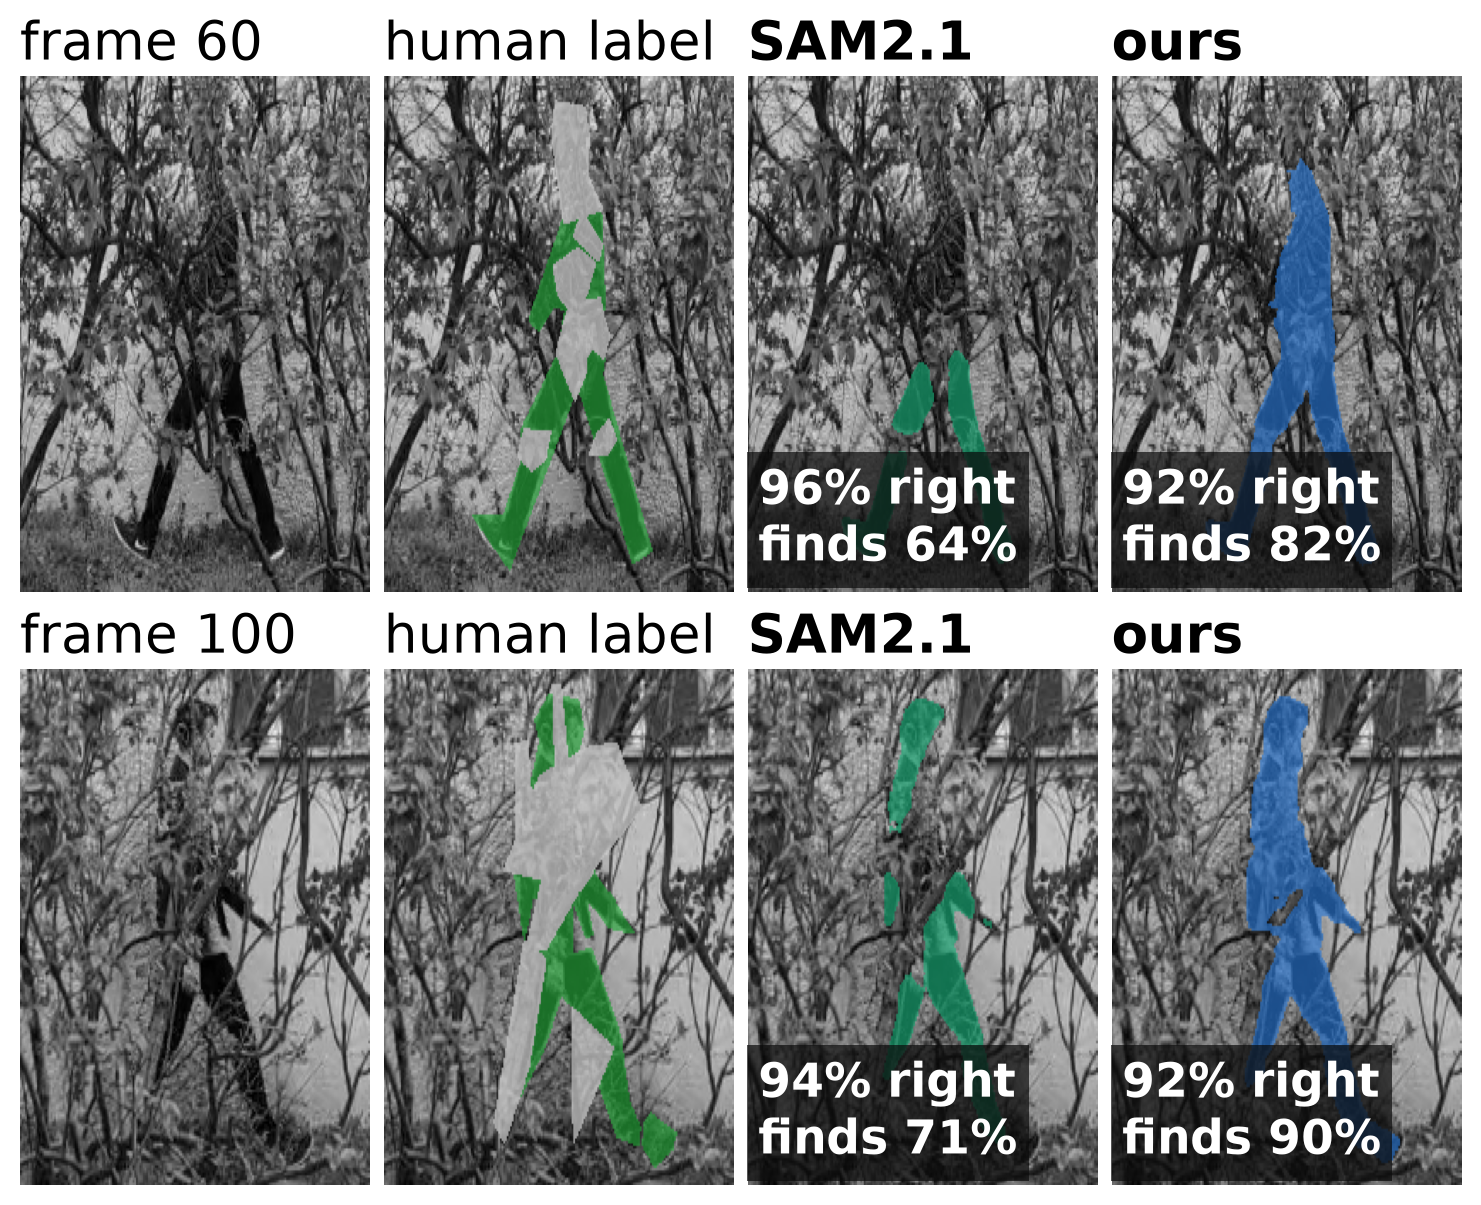
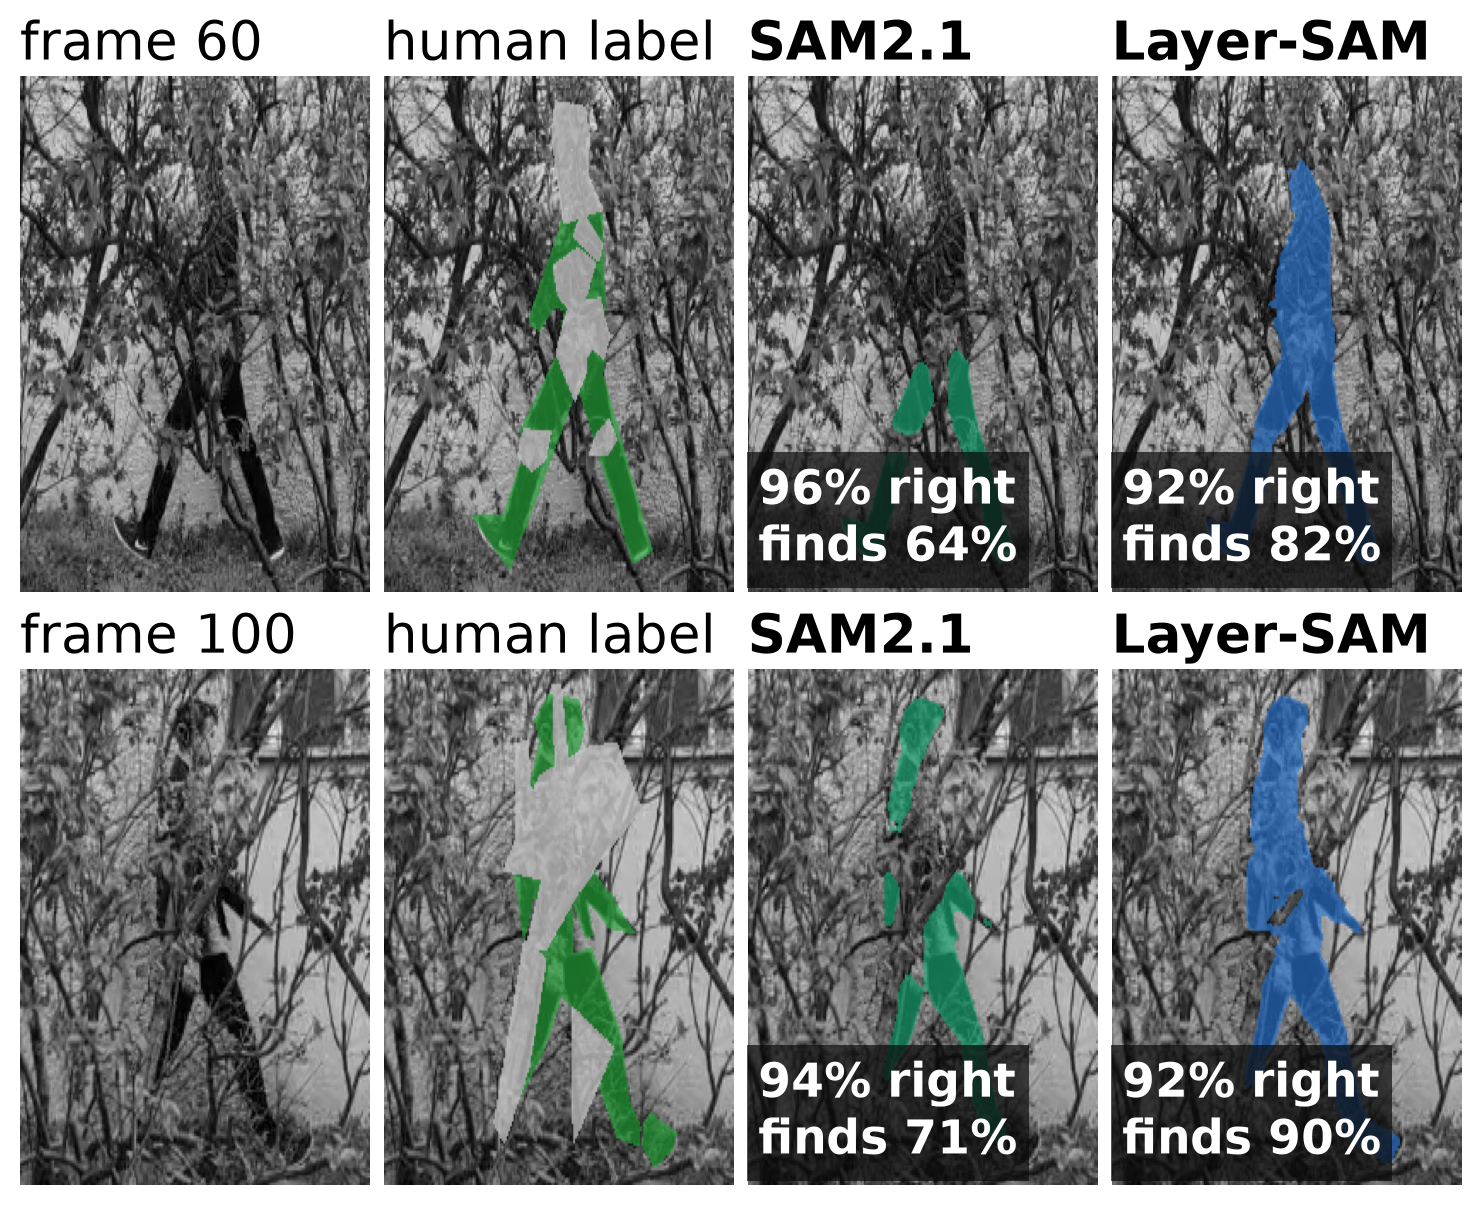
Poster: Layer-SAM naming, memory/tracker table columns, whole-crossing recognition-vs-N
- Results table: mem./trk. check columns replace the asterisk footnote; method named Layer-SAM in table and figures.
- recogN: 32 whole crossings, seq1-4 (eval/recog_sweep.sbatch CSVs, N = 5 from the headline CSV), Layer-SAM seed 0,
  SAM2.1 and the plain average only; caption follows the new result (ahead at N = 3, on par at 5-11, SAM2.1 ahead
  for long integrations).
- amssymb for the check marks.

Changed region(s): [[0.7454, 0.0, 0.9629, 0.0614], [0.7454, 0.4913, 0.9629, 0.5527]]

diff --git a/benchmark/nfo_vos/tools/poster_figures.py b/benchmark/nfo_vos/tools/poster_figures.py
@@ -112,7 +112,7 @@ def playsafe_options():
 
 def qual():
     """Results column: the section-2 frame again, now with our mask, plus a frame late in another crossing."""
-    playsafe((('seq4', 293), ('seq4', 123)), arms=(('b0-c2', 'SAM2.1', C_B0), ('adapter-pf', 'ours', C_OURS)),
+    playsafe((('seq4', 293), ('seq4', 123)), arms=(('b0-c2', 'SAM2.1', C_B0), ('adapter-pf', 'Layer-SAM', C_OURS)),
              name='qual.png', pad_x=0.5, row_h=3.6)
 
 
@@ -184,7 +184,7 @@ def bars():
 STEPS = (('+ tracker prompts\n(memory kept)', (0.089, 0.012, -0.029), ((0.062, 0.116), (-0.011, 0.036), (-0.054, 0.001)), None),
          ('− memory', (-0.033, -0.060, -0.040), ((-0.076, 0.004), (-0.113, -0.014), (-0.061, -0.021)), None),
          ('+ adapter, given the\nempty scene', (0.019, 0.055, 0.055), None, None),
-         ('+ integral image\n(= ours)', (0.031, 0.016, 0.017), None,
+         ('+ integral image\n(= Layer-SAM)', (0.031, 0.016, 0.017), None,
           ((0.019, 0.035, 0.038), (0.005, 0.020, 0.022), (0.009, 0.022, 0.019))))
 
 
@@ -231,7 +231,7 @@ def masksize():
     print(f'SAM2.1 video / ours mask size, k >= {MF.K1}: x{np.exp(m):.2f} [{np.exp(lo):.2f}, {np.exp(hi):.2f}] ({n} clips)')
     fig, ax = plt.subplots(figsize=(9.3, 3.3))
     for a, label, col in (('b0-c2', 'SAM2.1', C_B0), ('b0trk-c2', 'SAM2.1 + tracker', '#8a5cc2'),
-                          ('ours', 'ours, no memory', C_OURS)):
+                          ('ours', 'Layer-SAM (ours)', C_OURS)):
         yv, lo, hi = MF.median_curve(F[a], k)
         ax.fill_between(k, lo, hi, color=col, alpha=0.13, lw=0)
         ax.plot(k, yv, color=col, lw=3.5, label=label)
@@ -244,27 +244,39 @@ def masksize():
     save(fig, 'masksize.png')
 
 
-def recogN():
-    """Detector AP50 on masked N-frame stacks vs N (40-frame windows, seq2–4; recog_vs_N's CSVs)."""
-    from benchmark.nfo_vos.eval import recog_vs_N as RN
-    import importlib
-    os.environ['NFO_RUN'] = 'rr'
-    importlib.reload(TR); importlib.reload(BM)
-    names = {'adapter-pf': 'ours, no memory', 't1-c2': 'SAMURAI', 'b0-c2': 'SAM2.1', 'trk': 'SAM2.1, no memory*',
-             'nomask': 'no mask (plain average)'}
-    fig, ax = plt.subplots(figsize=(9.3, 2.9))
+# recognition vs N on the 32 whole crossings (seq1-4): eval/recog_sweep.sbatch CSVs (_fpN_<arm>), N = 5 from the
+# headline CSV (_fp); Layer-SAM = seed 0 (the sweep ran one seed)
+RECOG_ARMS = (('adapter-pf', 'Layer-SAM (ours)', C_OURS, '-'), ('b0-c2', 'SAM2.1', C_B0, '-'),
+              ('nomask', 'no mask (plain average)', C_GREY, '--'))      # tracker variants: in the table
+
+
+def recogN(ns=(1, 3, 5, 7, 11, 15, 21)):
+    """YOLO11 AP50 on masked N-frame integrations vs N, whole crossings, seq1-4; light band: 95% CI over crossings."""
+    from benchmark.nfo_vos.eval.recognition import ap50
     res = {}
-    for N in RN.NS:
-        rows = list(csv.DictReader(open(f'{BM.OUT}/recog_N{N}_uniform_meanfill_ablN.csv')))
-        for a, *_ in RN.ARMS:
-            res[a, N] = RN.ap_ci(rows, a, B=300)
-    for a, _, col, ls in [x for x in RN.ARMS if x[0] != 't1-c2']:
-        yv = np.array([res[a, N] for N in RN.NS])
-        ax.plot(RN.NS, yv[:, 0], ls, color=col, lw=3 if a == 'adapter-pf' else 2.2, marker='o', ms=8, mec='white',
-                mew=1.5, label=names[a], zorder=3 if a == 'adapter-pf' else 2)
-    ax.axvline(5, color='#52514e', lw=1, ls=':')                     # N = 5: the headline's stack length
-    ax.set_xticks(RN.NS); ax.set_xlabel('frames stacked N'); ax.set_ylabel('person detected (AP50)')
-    ax.legend(loc='upper center', bbox_to_anchor=(0.5, -0.22), ncol=2, frameon=False, fontsize=16)
+    for N in ns:
+        for a, *_ in RECOG_ARMS:
+            f = f'{BM.OUT}/recog_N5_uniform_meanfill_fp.csv' if N == 5 else f'{BM.OUT}/recog_N{N}_uniform_meanfill_fpN_{a}.csv'
+            win = {}
+            for r in csv.DictReader(open(f)):
+                if r['arm'] == a:
+                    win.setdefault(r['id'], []).append([tuple(x) for x in json.loads(r['dets'])])
+            ids = sorted(win)
+            boot = np.random.default_rng(0).integers(0, len(ids), (300, len(ids)))
+            bs = [ap50([d for i in b for d in win[ids[i]]]) for b in boot]
+            res[a, N] = (ap50([d for i in ids for d in win[i]]), *np.quantile(bs, [.025, .975]))
+            print(f'N={N} {a:10s} AP50 {res[a, N][0]:.3f} [{res[a, N][1]:.3f}, {res[a, N][2]:.3f}]')
+    fig, ax = plt.subplots(figsize=(9.3, 3.1))
+    for a, label, col, ls in RECOG_ARMS:
+        y = np.array([res[a, N] for N in ns])
+        if a in ('adapter-pf', 'b0-c2'):
+            ax.fill_between(ns, y[:, 1], y[:, 2], color=col, alpha=0.12, lw=0)
+        ax.plot(ns, y[:, 0], ls, color=col, lw=3.2 if a == 'adapter-pf' else 2, marker='o', ms=7 if a == 'adapter-pf' else 5,
+                mec='white', mew=1.2, label=label, zorder=3 if a == 'adapter-pf' else 2)
+    ax.axvline(5, color='#52514e', lw=1, ls=':')                     # N = 5: the table's stack length
+    ax.set_xticks(ns); ax.set_xlim(0.5, 21.5); ax.set_xlabel('frames integrated N'); ax.set_ylabel('YOLO11 AP50')
+    ax.legend(loc='upper center', bbox_to_anchor=(0.5, -0.24), ncol=3, frameon=False, fontsize=14, handlelength=1.4,
+              columnspacing=1)
     ax.grid(axis='y', color='#e6e5e0', lw=0.8); ax.set_axisbelow(True)
     save(fig, 'recogN.png')
 

diff --git a/docs/poster/poster_latex/NFO_VOS_inhalt.tex b/docs/poster/poster_latex/NFO_VOS_inhalt.tex
@@ -129,40 +129,41 @@ scene-1 hand labels (IoU), not on the downstream metrics.
 \Abschnitt{6\quad Results on NFO-VOS}
 
 \begin{center}
-\setlength{\tabcolsep}{3.6pt}\fontsize{20}{25}\selectfont
-\begin{tabular}{@{}l cc ccc ccc@{}}
- & \multicolumn{2}{c}{\textbf{tracking}} & \multicolumn{3}{c}{\textbf{segmentation}} & \multicolumn{3}{c}{\textbf{recognition}} \\
- & AUC & P@20 & J & P & R & conf & IoU & AP50 \\\hline
-SAM2.1 & .571 & .682 & .733 & \textbf{.89} & .80 & .666 & .692 & .869 \\
-SAMURAI & .579 & .691 & .730 & .88 & .81 & .663 & .696 & .863 \\
-SAM2.1 + tracker$^*$ & .661 & .766 & .745 & .82 & \textbf{.88} & .636 & .691 & .861 \\
-SAM2.1, no memory$^*$ & .628 & .727 & .685 & .80 & .83 & .596 & .645 & .814 \\
-\textbf{ours, no memory} & \textbf{.678} & \textbf{.773} & \textbf{.756} & .86 & .85 & \textbf{.667} & \textbf{.705} & \textbf{.878}
+\setlength{\tabcolsep}{3.3pt}\fontsize{19}{24}\selectfont
+\begin{tabular}{@{}l cc cc ccc ccc@{}}
+ & & & \multicolumn{2}{c}{\textbf{tracking}} & \multicolumn{3}{c}{\textbf{segmentation}} & \multicolumn{3}{c}{\textbf{recognition}} \\
+ & mem. & trk. & AUC & P@20 & J & P & R & conf & IoU & AP50 \\\hline
+SAM2.1 & $\checkmark$ & -- & .571 & .682 & .733 & \textbf{.89} & .80 & .666 & .692 & .869 \\
+SAMURAI & $\checkmark$ & -- & .579 & .691 & .730 & .88 & .81 & .663 & .696 & .863 \\
+SAM2.1 & $\checkmark$ & $\checkmark$ & .661 & .766 & .745 & .82 & \textbf{.88} & .636 & .691 & .861 \\
+SAM2.1 & -- & $\checkmark$ & .628 & .727 & .685 & .80 & .83 & .596 & .645 & .814 \\
+\textbf{Layer-SAM} & -- & $\checkmark$ & \textbf{.678} & \textbf{.773} & \textbf{.756} & .86 & .85 & \textbf{.667} & \textbf{.705} & \textbf{.878}
 \end{tabular}
 \end{center}
-\Unterschrift{32 walks, 4 scenes (scenes 2--4 alone: same conclusions); J/P/R on the hand-labelled frames; ours:
-mean of 3 seeds. Recognition IoU: top YOLO detection vs hand-drawn box.\\
-$^*$prompted in every frame by our tracker; ``no memory'': SAM2.1's image model.}
+\Unterschrift{32 walks, 4 scenes (scenes 2--4 alone: same conclusions); J/P/R on the hand-labelled frames; Layer-SAM:
+mean of 3 seeds. \emph{mem.}: memory of past masks; \emph{trk.}: our tracker's box in every frame (else only the first
+prompt). Recognition IoU: top YOLO detection vs hand-drawn box.}
 
 \Merke{No memory, yet above every memory variant on tracking, segmentation and recognition. Better memory
 management (SAMURAI) adds little here.}
 
-\Unter{Masks: SAM2.1 vs ours}
+\Unter{Masks: SAM2.1 vs Layer-SAM}
 \Bild{plots/nfo/qual.png}
 \Unterschrift{Two frames of one walk in scene 4. \emph{right}: precision; \emph{finds}: recall.}
 
 \Unter{Does the segmentation degrade over time?}
 \Bild{plots/nfo/masksize.png}
 \Unterschrift{Mask area / box area, relative to frame 6 (median, 95\,\% CI). Prompted only at the start, memory masks
-shrink (0.76$\times$ ours after frame 30); with tracker prompts they keep their size, as ours do.}
+shrink (0.76$\times$ Layer-SAM after frame 30); with tracker prompts they keep their size, as Layer-SAM's do.}
 
 \Unter{Ablation}
 \Bild{plots/nfo/ablation.png}
-\Unterschrift{From SAM2.1 to ours, one change per row; lines: 95\,\% CI, dots: 3 seeds. Without the integral image, the
+\Unterschrift{From SAM2.1 to Layer-SAM, one change per row; lines: 95\,\% CI, dots: 3 seeds. Without the integral image, the
 adapter gets the empty scene in its place.}
 
 \Unter{Recognition vs.\ frames integrated}
 \Bild{plots/nfo/recogN.png}
-\Unterschrift{YOLO11 AP50, N masked frames integrated: on par up to N\,=\,7 (N\,=\,5 in the table), ahead beyond; $^*$as in the table.}
+\Unterschrift{YOLO11 AP50 (Layer-SAM: one seed): ahead at N\,=\,3, on par at 5--11; beyond, SAM2.1 keeps more and the
+plain average wins.}
 
 \end{multicols*}

diff --git a/docs/poster/poster_latex/NFO_VOS_poster.tex b/docs/poster/poster_latex/NFO_VOS_poster.tex
@@ -12,6 +12,7 @@
 \input{./_Einstellungen.tex}                    % !!! DATEI ANPASSEN !!!
 
 \usepackage{tikz}
+\usepackage{amssymb} % \checkmark in the results table
 \setlength{\PlakatFusszeilePositionUnten}{42mm} % references a bit lower: gap below the columns
 \usetikzlibrary{arrows.meta,positioning,calc,fit,backgrounds,shapes.geometric}
 
